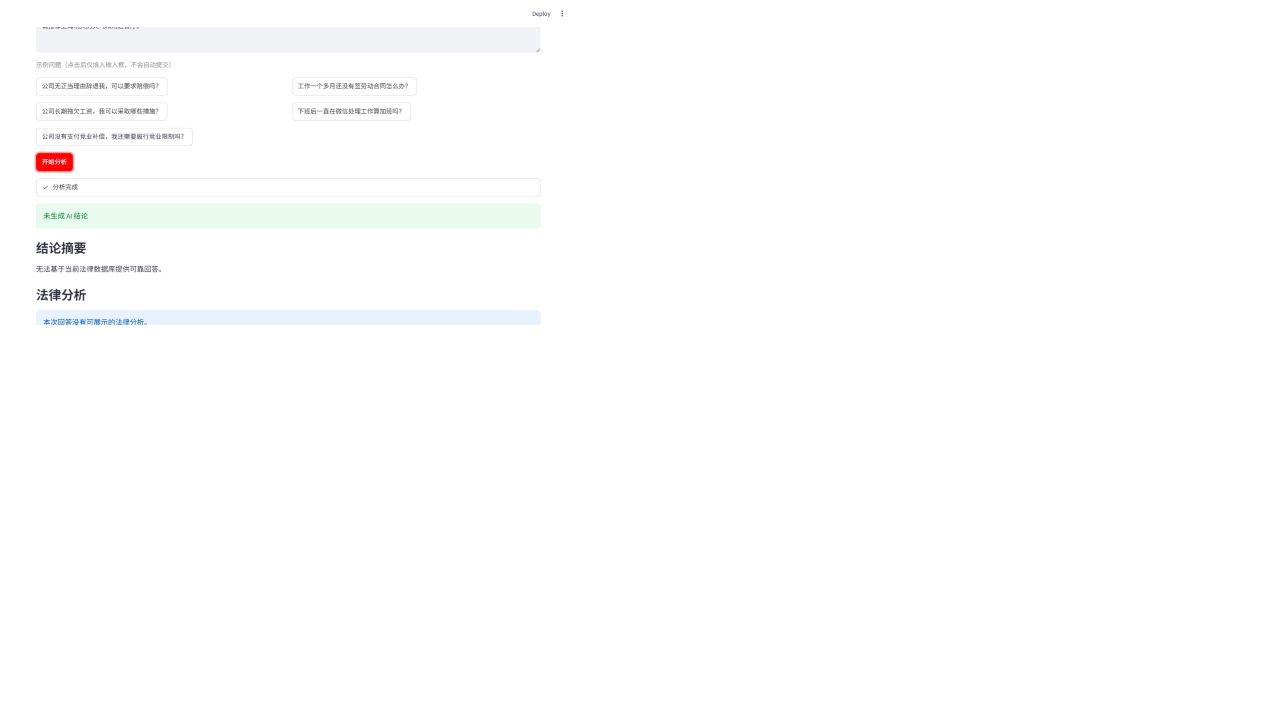
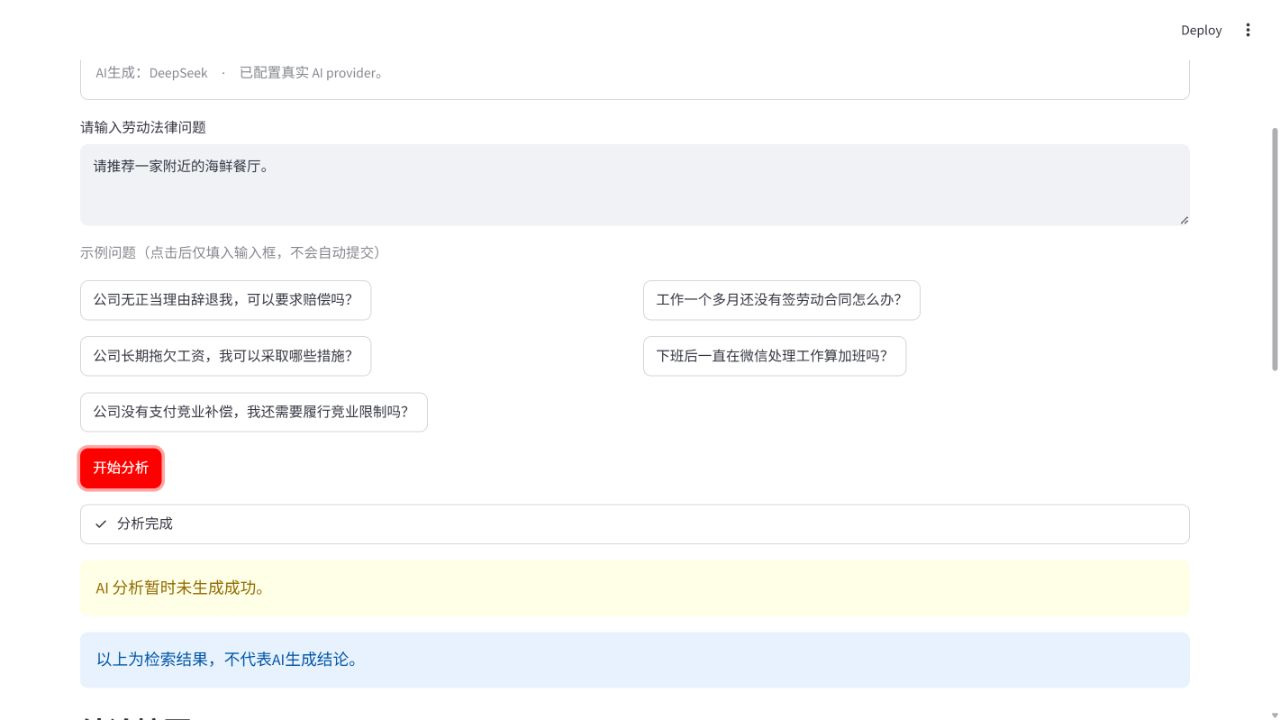
docs: localize README to Chinese and refresh demo screenshots

diff --git a/README.md b/README.md
@@ -2,49 +2,57 @@
 
 ## 劳动法律信息检索与类案辅助分析系统
 
-An AI-powered labor-law retrieval and case-augmented RAG assistant with hybrid retrieval, cross-encoder reranking, grounded generation, and citation validation.
+LegalCase-Copilot 是一个面向劳动争议场景的法律信息检索与类案辅助分析系统。项目实现了从问题理解、法规与案例检索、混合召回、Cross-Encoder Reranker 重排、上下文构建，到结构化生成、引用校验和安全 fallback 的完整流程。
 
-LegalCase-Copilot is an engineering-oriented research and demonstration system for labor-dispute legal information retrieval. It implements a complete retrieval → reranking → context building → generation → validation pipeline rather than simply forwarding a question to an LLM API.
+本项目用于工程研究、系统演示和评测，不替代律师或其他专业法律服务，也不对具体案件作出法律结论。
 
-## Project Overview
+## 项目概览
 
-The system combines 372 article-level labor-law and judicial-interpretation records with a 6,492-case public labor-dispute corpus, BM25 sparse retrieval, dense semantic retrieval, hybrid fusion, cross-encoder reranking, DeepSeek-compatible grounded generation, deterministic LAW/CASE citations, citation validation, article sanitization, and safe fallback.
+系统将以下能力组合为一条可审计的 production-style pipeline：
 
-The 6,492-case production corpus and its generated embeddings are external runtime assets. They are not included in this repository.
+- 372 条法规及司法解释的 article-level 检索记录
+- 6,492 条劳动争议案例的外部 production corpus 接口
+- BM25 稀疏检索与 dense semantic retrieval
+- Hybrid Retrieval 融合与 Cross-Encoder Reranker 重排
+- Case-Augmented RAG：法规证据与类案证据分开检索、组合使用
+- DeepSeek-compatible grounded generation
+- 确定性的 `LAW-*` / `CASE-*` citation namespace
+- Citation Validation、article sanitization 和安全 fallback
+
+6,492 案例 production corpus 及其生成的 embeddings 不随本仓库发布，需要用户从具有适当来源和使用权限的渠道自行准备。
 
 ## Demo
 
-The Streamlit demo presents law-only and law + 6,492-case augmentation modes in one page. It displays provider/corpus status, structured analysis, citation metadata, risk notes, confidence, and safe retrieval-only fallback.
+Streamlit Demo 在同一页面提供两种模式：法规检索、法规 + 类案增强。页面会展示 provider 和 corpus 状态、结构化回答、完整法律分析、LAW/CASE citation metadata、风险提示、置信度，以及不伪造 AI 结论的 retrieval-only fallback。
 
-![Demo home](docs/images/demo-home.png)
+### 首页
 
-![Case-augmented result](docs/images/demo-case-augmented-success.png)
+<a href="docs/images/demo-home.png"><img src="docs/images/demo-home.png" alt="LegalCase-Copilot Demo 首页" width="900"></a>
 
-See the [Web Demo guide](docs/demo.md) for the additional law-only and fallback screenshots.
+### 法规检索结果
 
-## Key Features
+<a href="docs/images/demo-law-only-success.png"><img src="docs/images/demo-law-only-success.png" alt="法规检索模式真实生成结果" width="900"></a>
 
-- Hybrid sparse+dense retrieval
-- Cross-encoder reranking with `BAAI/bge-reranker-base`
-- Configurable full-case corpus integration
-- Case-Augmented RAG with separate law and case evidence
-- Grounded structured generation with bounded retries
-- Deterministic `LAW-*` and `CASE-*` citation namespaces
-- Citation metadata rendering and validation against retrieved context
-- Unsupported article-number sanitization
-- Safe refusal and retrieval-only fallback
-- Real-provider evaluation and Streamlit presentation layer
+### 法规 + 类案增强结果
 
-## System Architecture
+<a href="docs/images/demo-case-augmented-success.png"><img src="docs/images/demo-case-augmented-success.png" alt="法规与类案增强模式真实生成结果" width="900"></a>
+
+### 安全 fallback
+
+<a href="docs/images/demo-fallback.png"><img src="docs/images/demo-fallback.png" alt="生成失败时的安全 fallback" width="900"></a>
+
+生成失败时，页面会明确标注“AI 分析暂时未生成成功”，只展示检索到的证据，不使用检索文本拼接虚假回答，也不伪造 confidence。详细启动方式见 [Demo 使用说明](docs/demo.md)。
+
+## 核心架构
 
 ```mermaid
 flowchart TD
-    Q[User Query] --> P[Query Processing]
+    Q[用户问题] --> P[问题理解]
     P --> R[BM25 + Dense Retrieval]
     R --> F[Hybrid Fusion]
     F --> X[Cross-Encoder Reranker]
-    X --> L[Labor Laws<br/>372 articles]
-    X --> C[Labor Cases<br/>6,492 cases]
+    X --> L[劳动法规<br/>372 条]
+    X --> C[劳动案例<br/>6,492 条]
     L --> B[Generation Context Builder]
     C --> B
     B --> D[DeepSeek-compatible Provider]
@@ -54,52 +62,47 @@ flowchart TD
     V --> A[Structured Answer<br/>LAW / CASE Metadata]
 ```
 
-## Dataset & Corpus
+法规和案例始终保持独立的检索与引用空间：法规提供规范性依据，案例提供类案事实、争议焦点、裁判理由和结果等辅助证据。案例检索不可用时，法规-only 路径仍可运行。
 
-### Labor-law corpus
+## 数据与语料边界
 
-The production law corpus contains 372 article-level records derived from six labor-law and judicial-interpretation source documents. Complete structured law records are not included in the public repository because their redistribution provenance is not confirmed.
+### 法规语料
 
-The original source-document packages are not included. The repository contains law schema, metadata, provenance notes, and parsing code; users who regenerate records must obtain texts from a suitable official source and verify its redistribution terms.
+生产评测使用 372 条 article-level 法规及司法解释记录。完整法规正文、原始 DOCX/PDF 和未经确认再分发许可的派生文本不包含在公开仓库中。仓库保留 schema、metadata、provenance 说明和处理代码，用户如需重建语料，应从合适的官方来源获取文本并自行确认使用条件。
 
-### Case corpus
+### 案例语料
 
-- Production corpus: 6,492 public labor-dispute cases
-- Curated retrieval benchmark: 19 cases
+- Production corpus：6,492 条劳动争议案例
+- Curated benchmark：19 个案例
+- Public test fixture：完全合成的小型样本，不是真实司法案例
 
-The production corpus comes from a public labor-case dataset derived from publicly available Chinese judgment data. It is not an official People’s Court database, a project-built official case repository, or a claim of automatic crawling from China Judgments Online.
+6,492 corpus 来源于公开可访问的劳动案例数据，但不代表官方人民法院案例库，也不代表项目自动爬取中国裁判文书网。由于体积、来源和授权边界，production corpus、full-corpus embeddings、raw court PDFs 和其他外部原始数据不随仓库发布。
 
-Because of size, provenance, and licensing considerations, the production corpus, generated full-corpus embeddings, and external raw labor dataset are not distributed in this repository. Users must obtain permitted data separately.
+更多边界说明见 [THIRD_PARTY_DATA.md](THIRD_PARTY_DATA.md) 和 [评测数据公开政策](docs/evaluation_data_policy.md)。
 
-## Retrieval Pipeline
+## 检索与 RAG 流程
 
-1. Query processing identifies labor-law retrieval intent.
-2. BM25 and dense semantic retrieval produce candidates.
-3. Hybrid fusion combines sparse and dense rankings.
-4. A cross-encoder reranks the candidate set.
-5. The context builder creates bounded, citation-addressable evidence.
+1. Query Processing 识别劳动法律范围和检索意图。
+2. BM25 与 dense semantic retrieval 召回候选法规或案例。
+3. Hybrid Fusion 融合稀疏与语义排序。
+4. Cross-Encoder Reranker 对候选集合进行重排。
+5. Context Builder 构建有边界、可引用的证据上下文。
+6. Generation 输出结构化回答。
+7. Citation Validation 校验引用是否对应真实检索证据。
 
-## Case-Augmented RAG
+模型输出中的引用不会被直接信任。`LAW-*` 和 `CASE-*` 命名空间相互独立，引用 metadata 从已验证的检索上下文中确定性生成。
 
-Law evidence and similar-case evidence are retrieved separately and combined into a bounded generation context. Responses may cite laws with `LAW-*` identifiers and cases with `CASE-*` identifiers. Case metadata is rendered from retrieved records rather than copied from opaque model output.
+## 安全与 fallback
 
-## Safety & Citation Validation
+系统在问题超出劳动法律范围、检索证据不足、生成或 schema 校验失败、引用无法对应检索上下文、模型返回不受支持条号时采用保守行为。页面会进入明确的 retrieval-only 或 evidence-insufficient 状态，不把检索结果伪装成 AI 成功回答，也不显示虚假的置信度。
 
-The generation layer validates structured responses against actual retrieved context, normalizes citations, sanitizes unsupported article-number references, and rejects unsupported citations. If generation fails, the UI does not fabricate an answer or confidence score:
-
-> AI 分析暂时未生成成功。
->
-> 以上为检索结果，不代表 AI 生成结论。
-
-The default local provider is deterministic Mock mode and is visibly labeled as such. Mock output is offline demonstration only and is not real AI generation.
-
-## Evaluation
+## 评测结果
 
 ### Full-corpus retrieval evaluation
 
-These results use 30 weakly supervised full-corpus retrieval queries, not an expert human-labeled benchmark:
+以下结果基于 30 条 weakly supervised full-corpus retrieval queries，不是专家人工标注基准：
 
-| Method | R@1 | R@3 | R@5 |
+| 方法 | R@1 | R@3 | R@5 |
 |---|---:|---:|---:|
 | BM25 | 0.8667 | 0.9333 | 0.9333 |
 | Semantic | 0.5333 | 0.5667 | 0.6000 |
@@ -108,30 +111,30 @@ These results use 30 weakly supervised full-corpus retrieval queries, not an exp
 
 ### Final 30-query real generation evaluation
 
-| Mode | Generation success | Citation validity |
+| 模式 | Generation success | Citation validity |
 |---|---:|---:|
 | Law-only | 86.67% | 100% |
 | Law + 6,492 cases | 96.67% | 100% |
 
-| Mode | Legal-basis accuracy | Case-reference accuracy | Average latency |
+| 模式 | Legal-basis accuracy | Case-reference accuracy | 平均延迟 |
 |---|---:|---:|---:|
 | Law-only | 0.6154 | N/A | 16.91 s |
 | Law + 6,492 cases | 0.6552 | 0.2126 | 36.51 s |
 
-Unsupported citation count was 0 in both modes. Citation validity is calculated for successful responses. Legal-basis accuracy and case-reference accuracy are automatic matching metrics, not expert legal correctness or expert case-similarity judgments. The unsupported-claim metric is not a human sentence-by-sentence fact audit. Generation success is measured on a fixed evaluation set and is not a guarantee for arbitrary questions.
+两种模式的 unsupported citation count 均为 0。上述指标是固定评测集上的自动指标，不等同于专家法律正确性、专业律师审查或对任意问题的保证；legal-basis accuracy 和 case-reference accuracy 也不是人工逐句事实审查。
 
-## Quick Start
+## 快速开始
 
-From the repository root:
+在仓库根目录执行：
 
 ```powershell
 python -m venv .venv
-.\\.venv\\Scripts\\Activate.ps1
+.\.venv\Scripts\Activate.ps1
 python -m pip install -r requirements.txt
 python -m pip install -r frontend_demo/requirements.txt
 ```
 
-Copy `.env.example` to `.env`. The default mock provider is offline. For a permitted real provider, configure locally:
+复制 `.env.example` 为 `.env`。默认 provider 为离线 Mock 模式；如要使用获准的真实 provider，请仅在本机配置：
 
 ```text
 LEGALCASE_LLM_PROVIDER=real
@@ -141,62 +144,57 @@ LEGALCASE_LLM_MODEL=<your-model-name>
 LEGALCASE_LLM_TIMEOUT=30
 ```
 
-Never commit `.env` or real credentials. The law-only mode requires permitted structured law records prepared locally; complete law text and its indexes are not bundled. Case-augmented production mode additionally requires `cases.jsonl`, `case_embeddings.npy`, and `case_embedding_index.json` under `data/processed/full_cases/`, or an equivalent `CASE_CORPUS_PATH`. The repository does not download these files automatically; when absent, the Demo keeps law-only mode available and marks production case augmentation unavailable.
+不要提交 `.env` 或真实凭据。
 
-Start the Web Demo:
+法规-only 模式需要用户自行准备具有适当权限的结构化法规记录；完整法规正文和索引不随仓库发布。法规 + 类案增强模式还需要 `cases.jsonl`、`case_embeddings.npy` 和 `case_embedding_index.json`，放在 `data/processed/full_cases/`，或通过 `CASE_CORPUS_PATH` 指定等价目录。仓库不会自动下载未知来源的数据；缺少这些文件时，Demo 应明确提示 production case augmentation 不可用，并继续提供法规-only 模式。
+
+启动 Demo：
 
 ```powershell
 powershell -ExecutionPolicy Bypass -File scripts/run_web_demo.ps1 -Port 8503
 ```
 
-Open <http://localhost:8503>. The script defaults to port 8501 without `-Port`.
+打开 <http://localhost:8503>。
 
-Run tests:
+运行测试：
 
 ```powershell
 python -m pytest tests
 ```
 
-The current regression baseline is 174 passing tests with one environment-specific pytest cache warning.
+公开 clone 的测试以 unit test 和 synthetic fixture contract test 为主；依赖未发布外部语料的 integration test 会明确 skip。当前公开 clone 验证结果为 85 passed、90 skipped、1 warning。
 
-## Project Structure
+## 项目结构
 
 ```text
-backend/        # Providers, search, RAG, generation, and validation
-data/           # Local source and processed artifacts; production corpus is external
-docs/           # Architecture, demo, provenance, and evaluation documentation
-evaluation/     # Reproducible benchmark runners and frozen metrics
-frontend_demo/  # Streamlit presentation layer
-scripts/        # Retrieval, indexing, and demo utilities
-tests/          # Unit and integration tests
+backend/        # Provider、检索、RAG、生成与引用校验
+data/           # 本地 metadata 与外部运行时语料边界
+docs/           # 架构、Demo、评测与 provenance 文档
+evaluation/     # 可复现评测脚本与脱敏指标产物
+frontend_demo/  # Streamlit 展示层
+scripts/        # 检索、索引和 Demo 工具
+tests/          # 单元测试与合成 fixture 测试
 ```
 
-## Limitations
+## 局限性
 
-- Automated evaluation is not equivalent to professional lawyer review or legal correctness certification.
-- Full-corpus case relevance is evaluated primarily with weak supervision and automatic metrics.
-- Case-augmented generation has materially higher latency; final evaluation average was approximately 36.51 seconds.
-- Real local case-augmented queries took approximately 39–58 seconds during browser acceptance.
-- Real provider deployment requires network access and local credentials.
-- The system is for legal information retrieval and similar-case assistance; it does not constitute formal legal advice.
+- 自动评测不等同于专业律师审查或法律正确性认证。
+- Full-corpus case relevance 主要使用 weak supervision 和自动指标评估。
+- 类案增强模式由于案例检索与生成，延迟显著高于法规-only 模式。
+- 真实 provider 运行需要网络访问和本机凭据。
+- 外部语料的获取、处理、再分发和 licensing 由使用者自行负责。
 
-## Data Provenance
+## 免责声明
 
-Law records retain source-document metadata. Curated case records retain provenance fields and stable identifiers. The production corpus is sourced from a public labor-case dataset and remains subject to its provenance and licensing terms. Users are responsible for obtaining and using external data lawfully.
+本系统用于劳动法律信息检索和类案辅助分析，不构成正式法律意见。具体争议请结合完整证据并咨询专业法律人士。
 
-## Public Evaluation Data Boundary
+## 文档
 
-The repository publishes evaluation code, project-authored query definitions, aggregate metrics, sanitized per-query metadata, and failure taxonomy. It does not publish third-party statutory or case text, retrieved full context, or raw prompts/responses containing that material. The 6,492-case production corpus and generated embeddings must be prepared locally from a lawful source. The checked-in case fixture is synthetic and is not a real judicial case. See [evaluation data policy](docs/evaluation_data_policy.md) and [third-party data boundary](THIRD_PARTY_DATA.md).
-
-## Disclaimer
-
-This system is intended for labor-law information retrieval and similar-case analysis. It does not constitute formal legal advice. Specific disputes require complete evidence review and consultation with a qualified legal professional.
-
-## Documentation
-
-- [Web Demo guide](docs/demo.md)
-- [Architecture](docs/architecture.md)
-- [Evaluation report](docs/evaluation_report.md)
-- [Data sources](docs/data_sources.md)
-- [Case data specification](docs/case_data_spec.md)
+- [Demo 使用说明](docs/demo.md)
+- [系统架构](docs/architecture.md)
+- [评测报告](docs/evaluation_report.md)
+- [评测数据公开政策](docs/evaluation_data_policy.md)
+- [数据来源说明](docs/data_sources.md)
+- [案例数据规范](docs/case_data_spec.md)
+- [第三方数据与 provenance 边界](THIRD_PARTY_DATA.md)
 - [MIT License](LICENSE)
